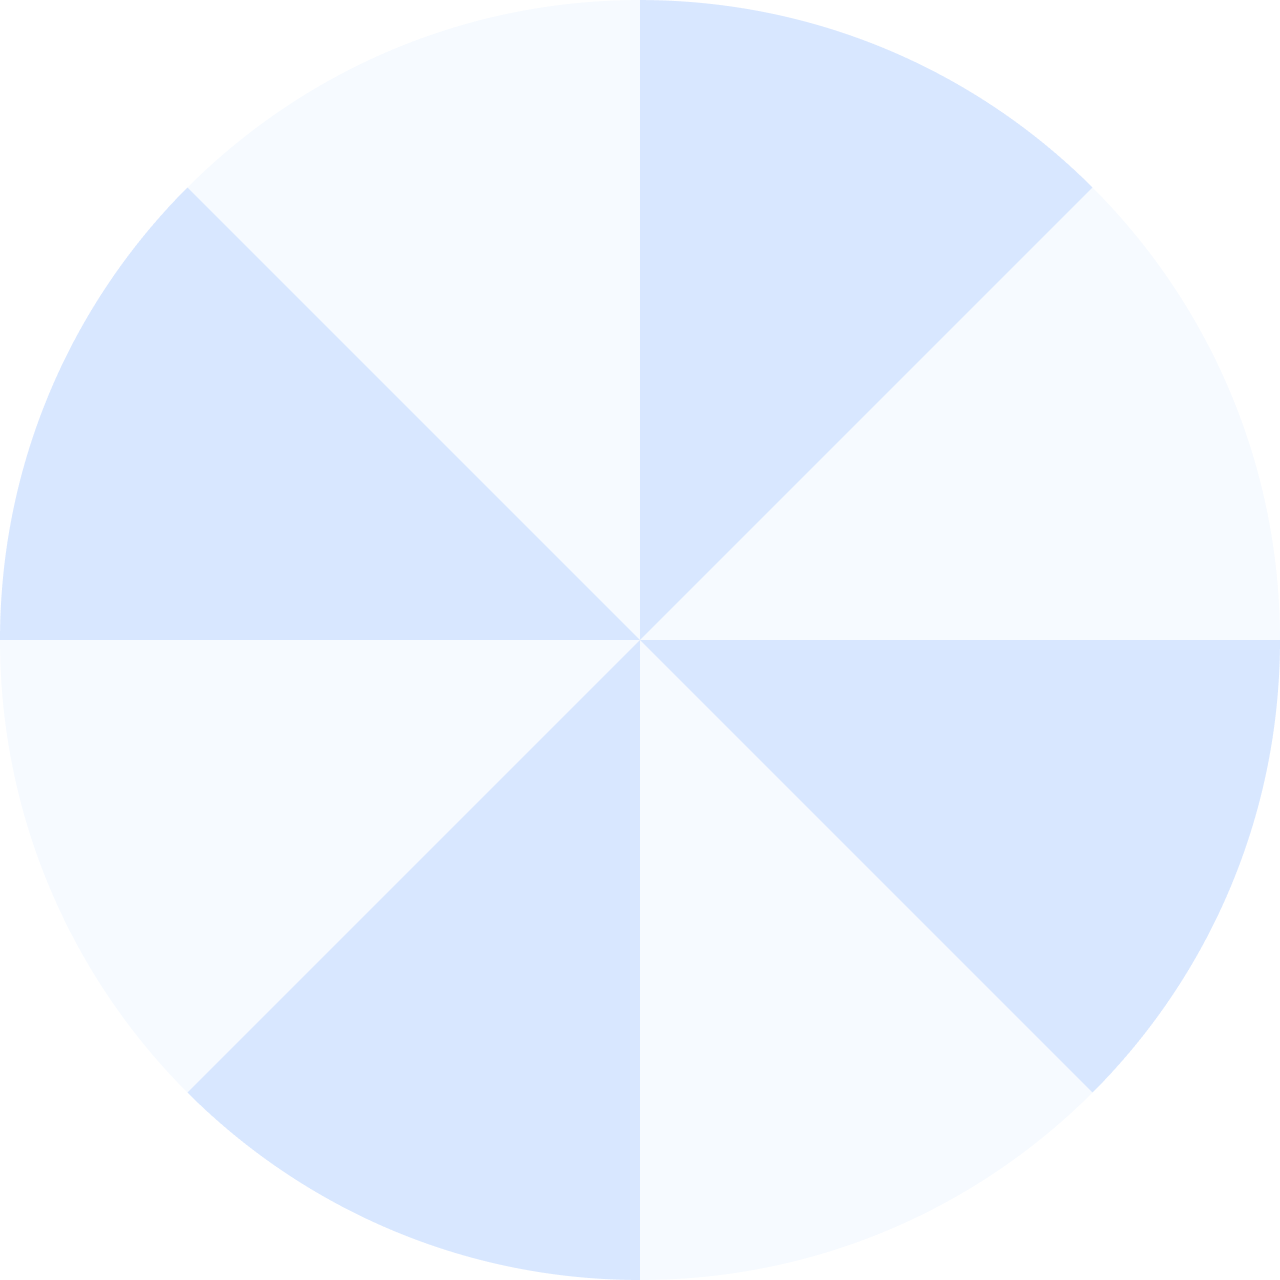
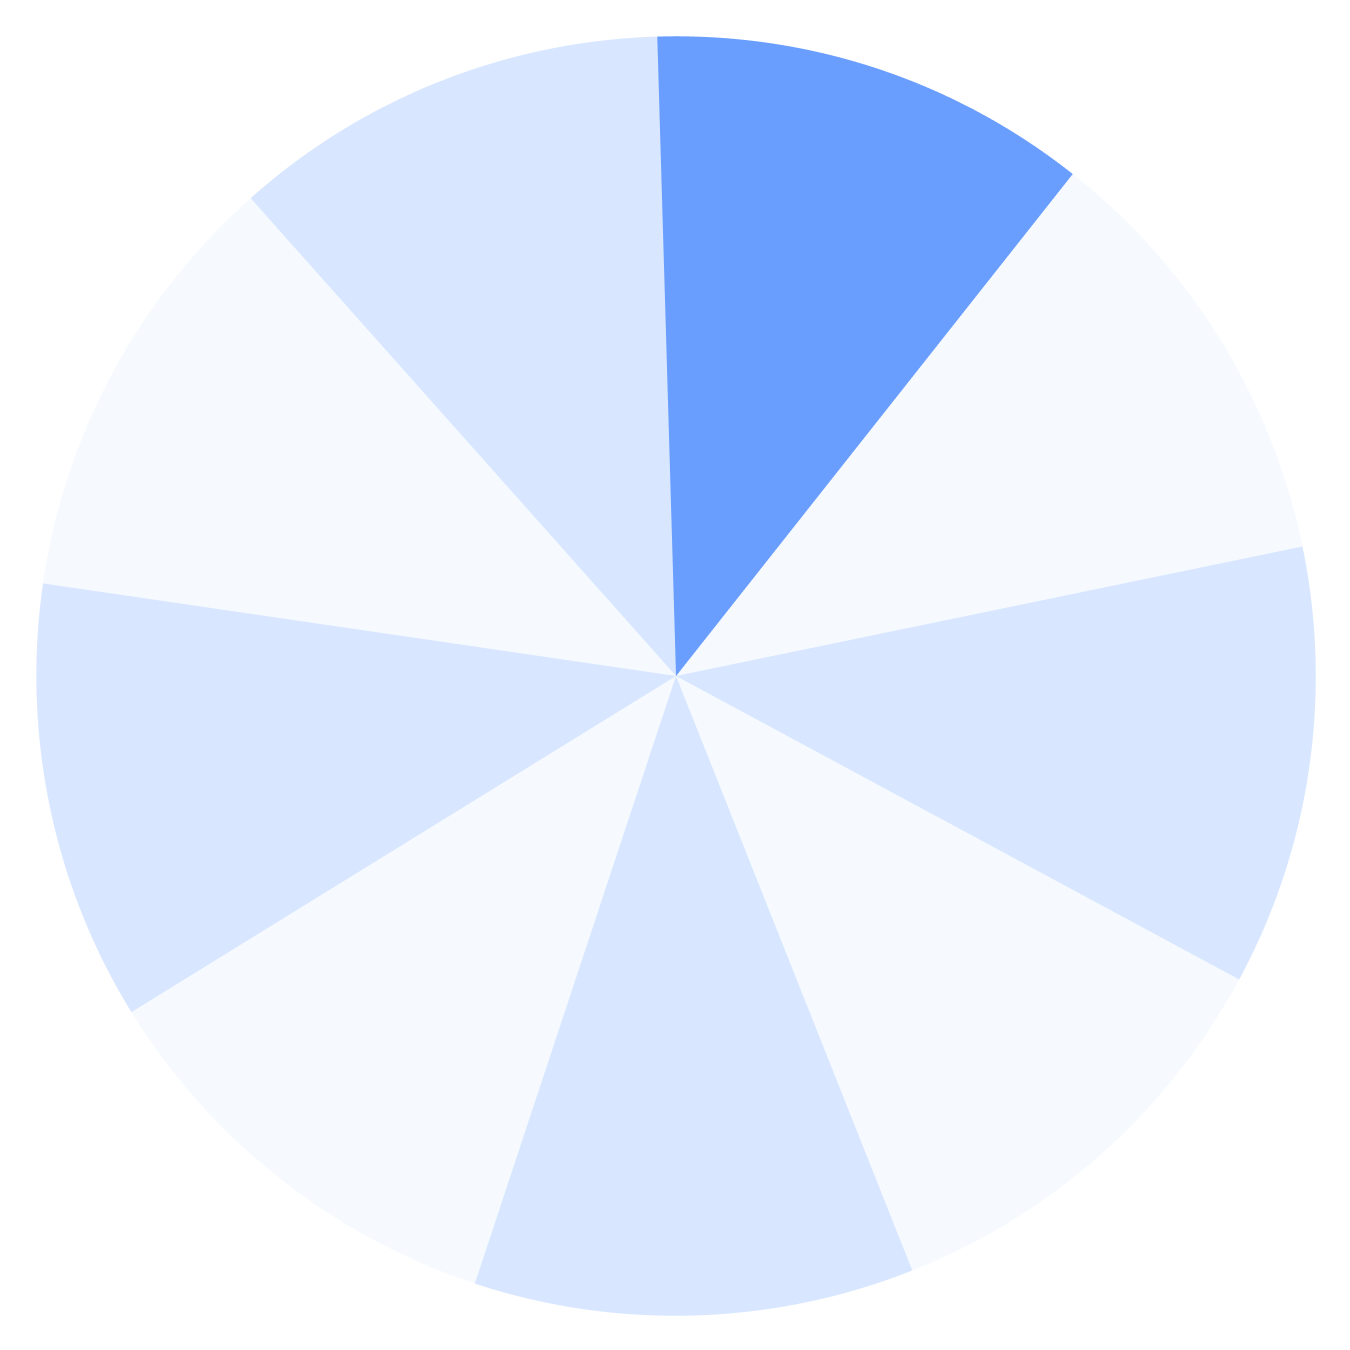
Test nine item

diff --git a/src/App.tsx b/src/App.tsx
@@ -41,11 +41,35 @@ function App() {
     {
       color: "#fc9ebe",
       prize: (
-        <div className="flex flex-col items-center justify-end w-full gap-[5px] ">
+        <div className="flex flex-col-reverse items-center justify-end w-full gap-[5px] ">
           <img
-            src="/gift-200ips.png"
+            src="/extra100.png"
             alt="Gift 200 IPS"
-            className="w-[39px] h-[44px] "
+            className="w-[33px] h-[36px] "
+          />
+          <div className="font-bold  text-wrap text-xs text-[#0A3AA2]">
+            <p className="">EXTRA </p>
+            <p>100%</p>
+          </div>
+        </div>
+      ),
+      key: "extra100",
+      value: "Extra 100%",
+      probability: 0.02,
+      nearMissEffect: {
+        targetDirection: "before",
+        proximity: 0.1,
+        chance: 0.7,
+      },
+    },
+    {
+      color: "#feeef6",
+      prize: (
+        <div className="flex flex-col-reverse items-center justify-end w-full gap-[5px] ">
+          <img
+            src="/200ips.png"
+            alt="Gift 200 IPS"
+            className="w-[31px] h-[36px] object-cover"
           />
           <div className="font-bold  text-wrap text-xs text-[#0A3AA2]">
             <p className="">Free </p>
@@ -58,76 +82,28 @@ function App() {
       probability: 0.2,
       nearMissEffect: {
         targetDirection: "before",
-        proximity: 0.1,
-        chance: 0.5,
+        proximity: 0.35,
+        chance: 0.6,
       },
     },
     {
       color: "#feeef6",
       prize: (
-        <div className="flex flex-col items-center justify-end w-full gap-[5px] ">
+        <div className="flex flex-col-reverse items-center justify-center w-full gap-[5px]">
           <img
-            src="/cloud-computing.png"
+            src="/20gbs.png"
             alt="Gift 200 IPS"
-            className="w-[48px] h-[34px] object-cover"
+            className="w-[38px] h-[27px] object-cover"
           />
           <div className="font-bold  text-wrap text-xs text-[#FF7B00]">
-            <p className="">Free </p>
+            <p className="">Free</p>
             <p>20 GBs</p>
           </div>
         </div>
       ),
       key: "free_20_gbs",
       value: "Free 20 GBs",
-      probability: 0.3,
-      nearMissEffect: {
-        targetDirection: "before",
-        proximity: 0.35,
-        chance: 0.6,
-      },
-    },
-    {
-      color: "#fc9ebe",
-      prize: (
-        <div className="flex flex-col items-center justify-end w-full gap-[5px] ">
-          <img
-            src="/coupon30.png"
-            alt="Gift 200 IPS"
-            className="w-[40px] h-[37px] object-cover"
-          />
-          <div className="font-bold  text-wrap text-xs text-[#0A3AA2]">
-            <p className="">Sale </p>
-            <p>30% OFF</p>
-          </div>
-        </div>
-      ),
-      key: "sale_30_off",
-      value: "Sale 30% OFF",
-      probability: 0.1,
-      nearMissEffect: {
-        targetDirection: "before",
-        proximity: 0.2,
-        chance: 0.5,
-      },
-    },
-    {
-      color: "#feeef6",
-      prize: (
-        <div className="flex flex-col items-center justify-center w-full ">
-          <img
-            src="/sad-face-blue.png"
-            alt="Gift 200 IPS"
-            className="size-10 object-cover"
-          />
-          <div className="font-bold  text-wrap text-xs text-[#FF7B00]">
-            <p className="">Good</p>
-            <p>luck</p>
-          </div>
-        </div>
-      ),
-      key: "sad_face",
-      value: "Good luck",
-      probability: 0,
+      probability: 0.2,
       nearMissEffect: {
         targetDirection: "before",
         proximity: 0.2,
@@ -137,15 +113,63 @@ function App() {
     {
       color: "#fc9ebe",
       prize: (
-        <div className="flex flex-col items-center justify-end w-full gap-[5px] ">
+        <div className="flex flex-col-reverse items-center justify-end w-full gap-[5px] ">
+          <img
+            src="/coupon20.png"
+            alt="Gift 200 IPS"
+            className="w-[38px] h-[27px] object-cover"
+          />
+          <div className="font-bold  text-wrap text-xs text-[#0A3AA2]">
+            <p className="">Sale </p>
+            <p>20% OFF</p>
+          </div>
+        </div>
+      ),
+      key: "sale_20_off",
+      value: "Sale 20% OFF",
+      probability: 0.12,
+      nearMissEffect: {
+        targetDirection: "before",
+        proximity: 0.2,
+        chance: 0.5,
+      },
+    },
+    {
+      color: "#feeef6",
+      prize: (
+        <div className="flex flex-col-reverse items-center justify-center w-full gap-[5px]">
+          <img
+            src="/1000ips.png"
+            alt="Gift 200 IPS"
+            className="w-[31px] h-[36px] object-cover"
+          />
+          <div className="font-bold  text-wrap text-xs text-[#FF7B00]">
+            <p className="">Free</p>
+            <p>1000 IPs</p>
+          </div>
+        </div>
+      ),
+      key: "free1000i_ps",
+      value: "Free 1000 IPs",
+      probability: 0.1,
+      nearMissEffect: {
+        targetDirection: "before",
+        proximity: 0.2,
+        chance: 1,
+      },
+    },
+    {
+      color: "#fc9ebe",
+      prize: (
+        <div className="flex flex-col-reverse items-center justify-end w-full gap-[5px] ">
           <img
             src="/coupon25.png"
             alt="Gift 200 IPS"
             className="w-[40px] h-[40px] object-cover"
           />
           <div className="font-bold  text-wrap text-xs text-[#0A3AA2]">
-            <p className="">ExTRA</p>
-            <p> 25%</p>
+            <p className="">Add 25% </p>
+            <p> IP or GB</p>
           </div>
         </div>
       ),
@@ -161,7 +185,7 @@ function App() {
     {
       color: "#feeef6",
       prize: (
-        <div className="flex flex-col items-center justify-end w-full gap-[5px] ">
+        <div className="flex flex-col-reverse items-center justify-end w-full gap-[5px] ">
           <img
             src="/coupon50.png"
             alt="Gift 200 IPS"
@@ -173,9 +197,9 @@ function App() {
           </div>
         </div>
       ),
-      key: "add_50_ip_or_gb",
-      value: "Add 50% IP or GB",
-      probability: 0.05,
+      key: "extra_50",
+      value: "EXtra 50%",
+      probability: 0.03,
       nearMissEffect: {
         targetDirection: "after",
         proximity: 0.1,
@@ -185,21 +209,21 @@ function App() {
     {
       color: "#fc9ebe",
       prize: (
-        <div className="flex flex-col items-center justify-end w-full gap-[5px] ">
+        <div className="flex flex-col-reverse items-center justify-end w-full gap-[5px] ">
           <img
-            src="/coupon20.png"
+            src="/100gbs.png"
             alt="Gift 200 IPS"
-            className="w-[40px] h-[37px] object-cover"
+            className="w-[38px] h-[27px] object-cover"
           />
           <div className="font-bold  text-wrap text-xs text-[#0A3AA2]">
-            <p className="">Sale</p>
-            <p>20% OFF</p>
+            <p className="">Free</p>
+            <p>100 GBs</p>
           </div>
         </div>
       ),
-      key: "sale_20_off",
-      value: "Sale 20% OFF",
-      probability: 0.2,
+      key: "free_100_gbs",
+      value: "Free 100 GBs",
+      probability: 0.1,
       nearMissEffect: {
         targetDirection: "before",
         proximity: 0.2,
@@ -209,24 +233,24 @@ function App() {
     {
       color: "#feeef6",
       prize: (
-        <div className="flex flex-col items-center justify-center w-full ">
+        <div className="flex flex-col-reverse items-center justify-center w-full gap-[5px]">
           <img
-            src="/sad-face-blue.png"
+            src="/coupon30.png"
             alt="Gift 200 IPS"
-            className="size-10 object-cover"
+            className="w-[31px] h-[29px] object-cover"
           />
           <div className="font-bold  text-wrap text-xs text-[#FF7B00]">
-            <p className="">Good</p>
-            <p>luck</p>
+            <p className="">Sale</p>
+            <p>30% OFF</p>
           </div>
         </div>
       ),
-      key: "try_again",
-      value: "Good luck",
-      probability: 0,
+      key: "sale_30_off",
+      value: "Sale 30% OFF",
+      probability: 0.08,
       nearMissEffect: {
         targetDirection: "before",
-        proximity: 0.2,
+        proximity: 0.8,
         chance: 0.1,
       },
     },

diff --git a/src/components/WheelOfFortune.tsx b/src/components/WheelOfFortune.tsx
@@ -153,7 +153,7 @@ export const WheelOfFortune = forwardRef<
         >
           <div
             ref={rotatingDivRef}
-            className="size-[76%] lucky-wheel"
+            className="size-[79%] lucky-wheel"
             style={{
               backgroundImage: "url('/background-spin.png')",
               backgroundSize: "cover",
@@ -181,7 +181,7 @@ export const WheelOfFortune = forwardRef<
                         ? "270deg"
                         : "0deg",
                     top:
-                      item.displayOrientation === "horizontal" ? "15%" : "3.5%",
+                      item.displayOrientation === "horizontal" ? "15%" : "6.5%",
                   }}
                   className="text-ellipsis absolute overflow-hidden"
                 >

diff --git a/src/components/WheelDots.tsx b/src/components/WheelDots.tsx
@@ -5,8 +5,8 @@ type Props = {
 };
 const WheelDots = (props: Props) => {
   const { prizeLength, wheelSegmentDegrees } = props;
-  const DOT_DISTANCE_FROM_CENTER = "-2px";
-  const DOT_OFFSET_FROM_EDGE_DEG = 0;
+  const DOT_DISTANCE_FROM_CENTER = "4.5px";
+  const DOT_OFFSET_FROM_EDGE_DEG = -1.5;
   return Array.from({ length: prizeLength }).map((_, index) => {
     const leftDotAngle = wheelSegmentDegrees * index + DOT_OFFSET_FROM_EDGE_DEG;
     return (
